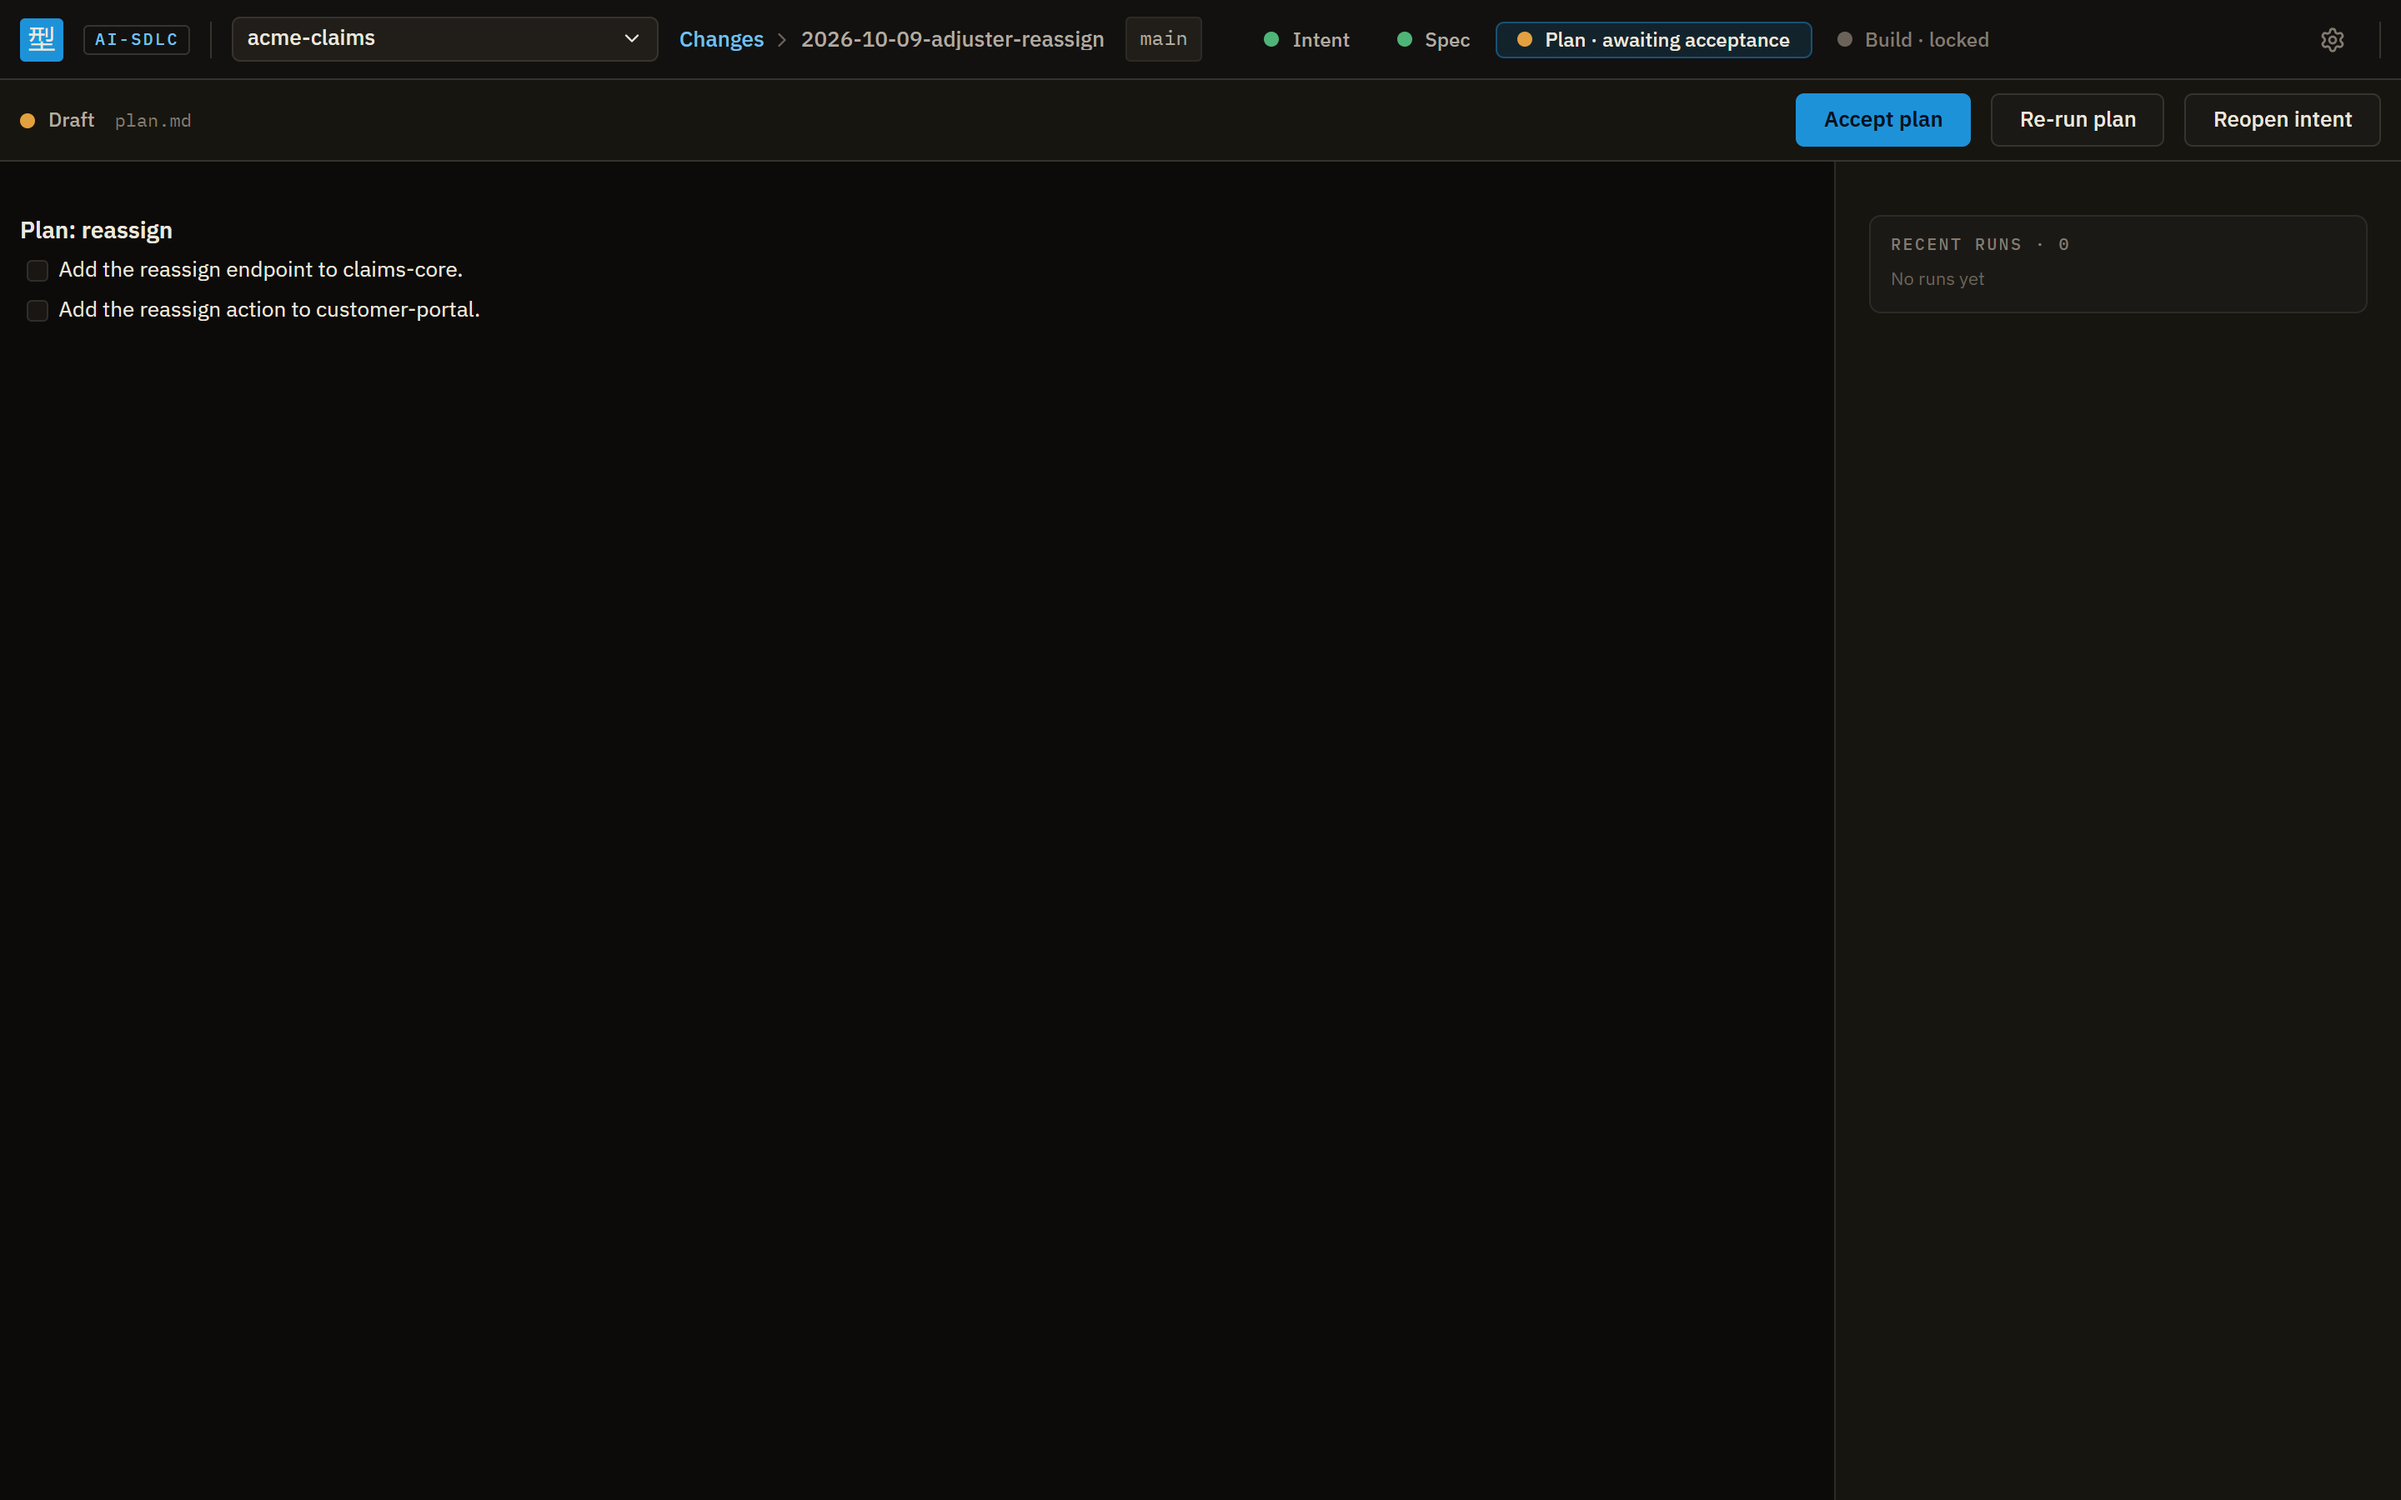
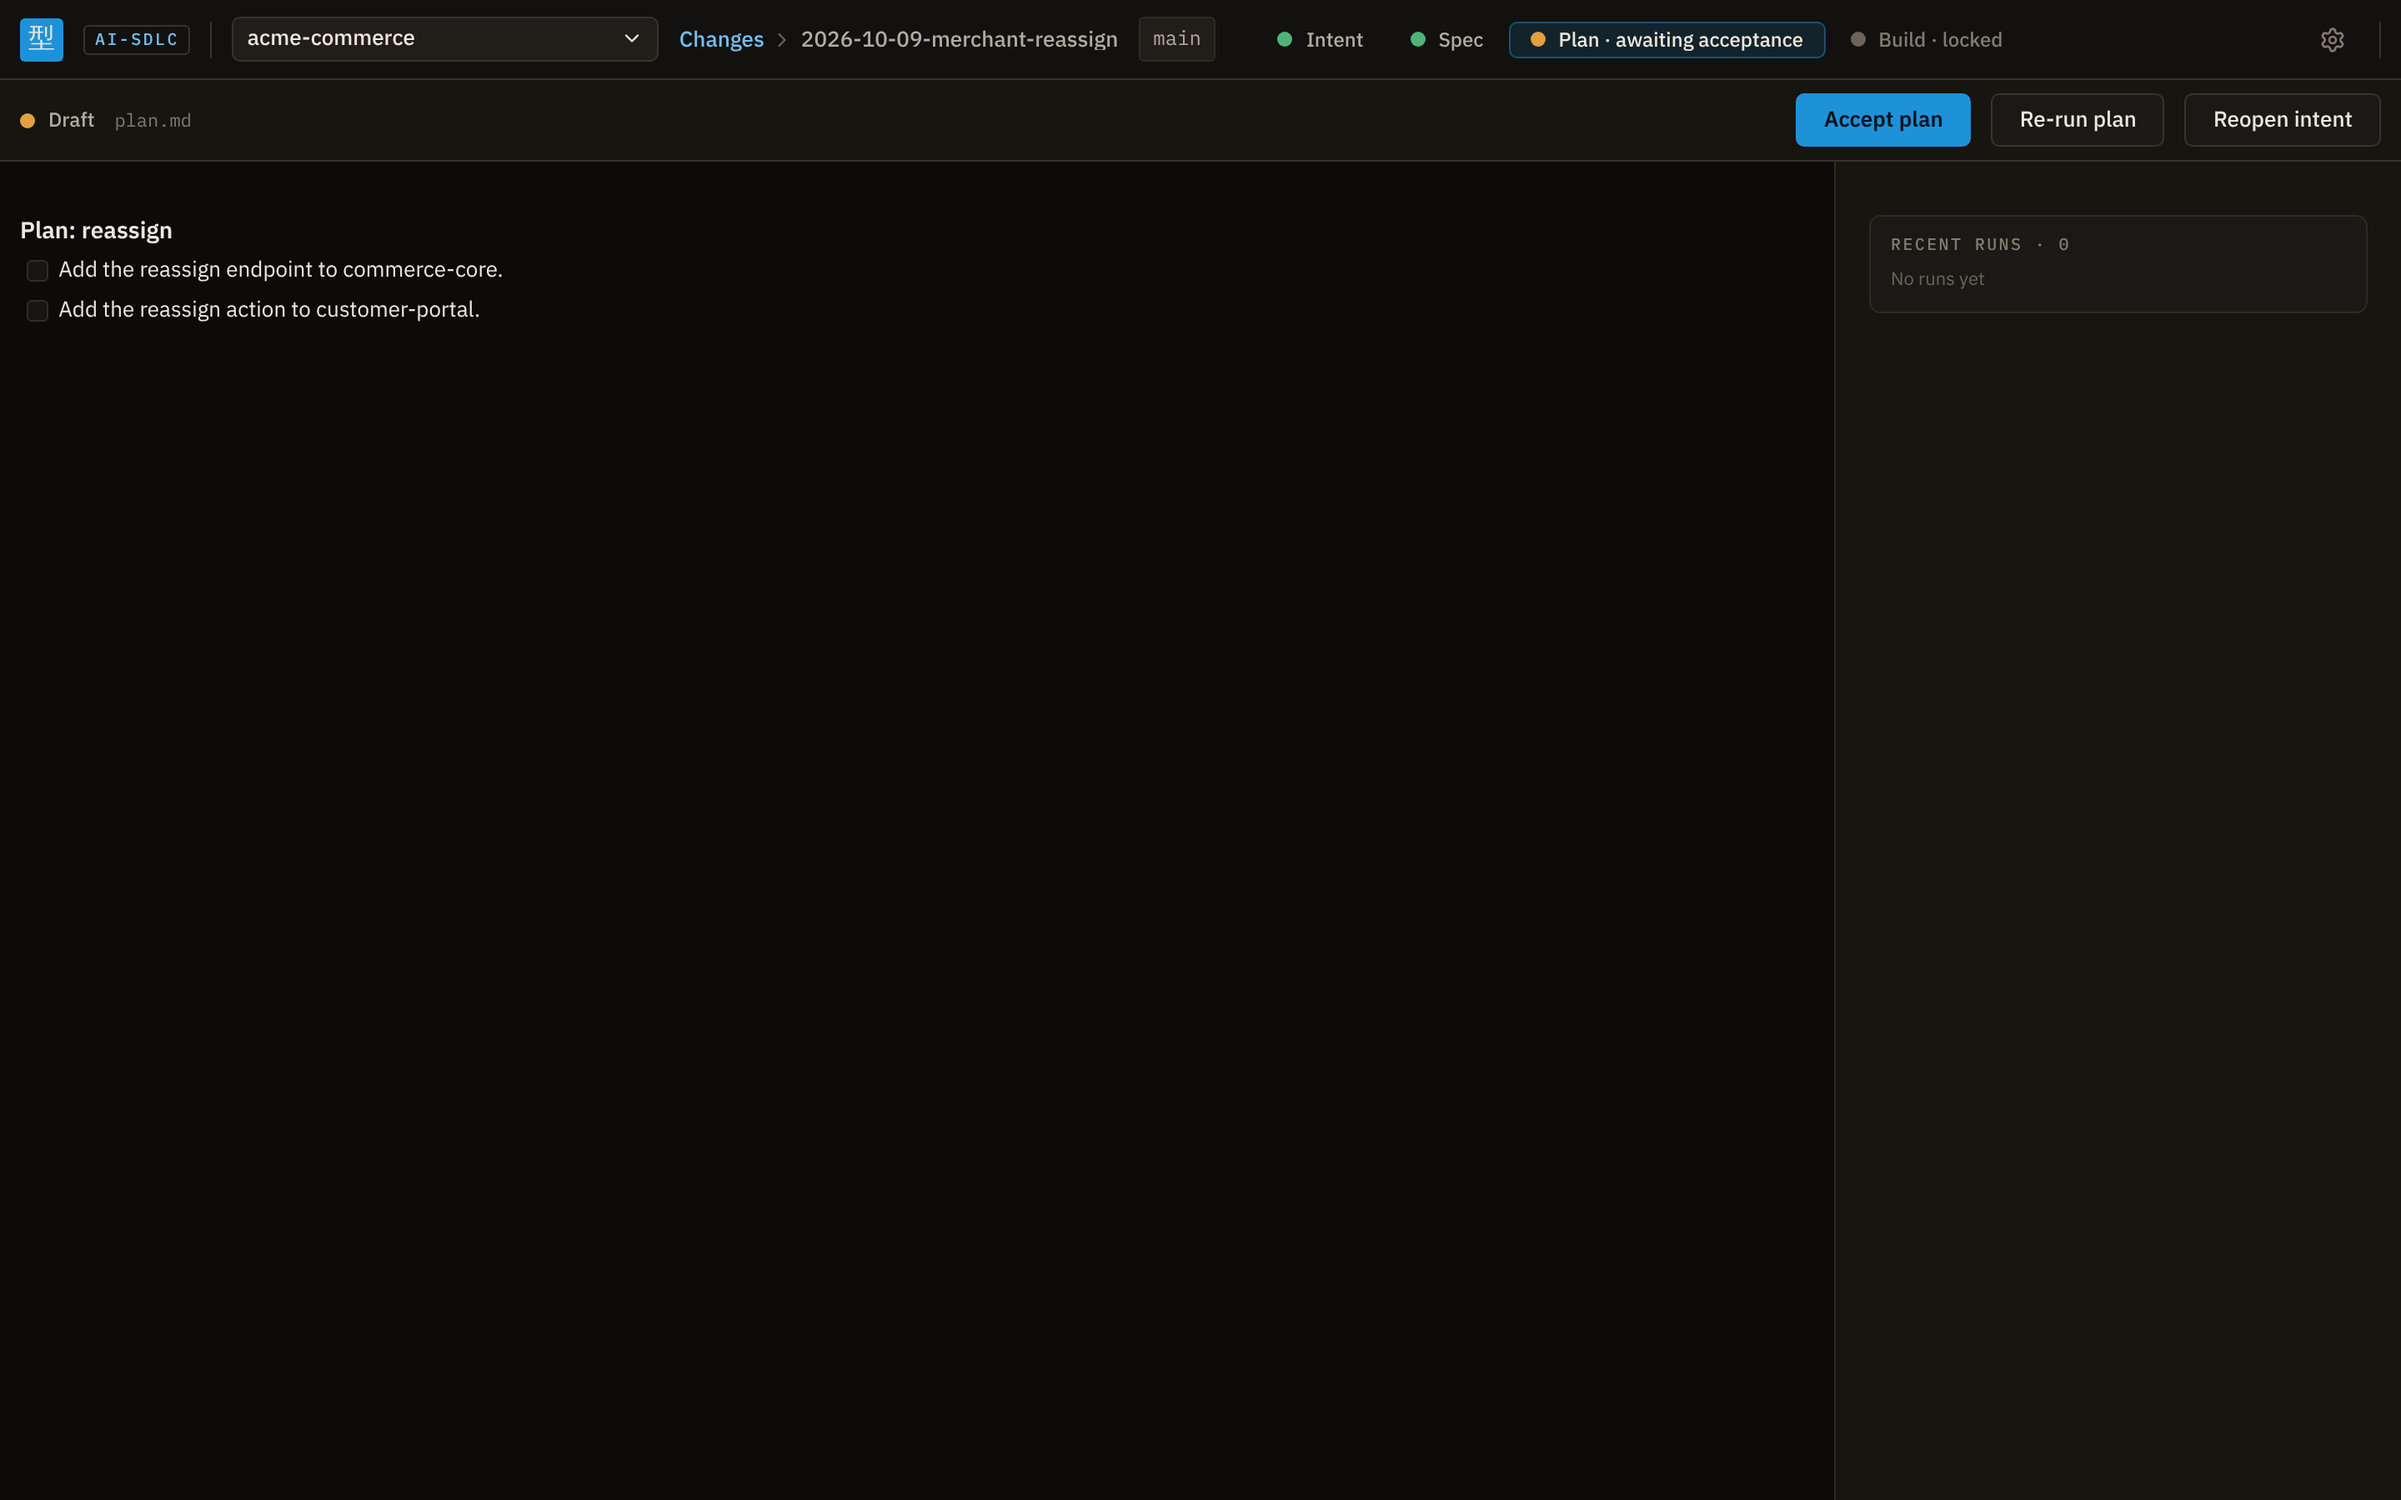
docs: README screenshots on the commerce demo data
Recaptured all 21 docs/images with npm run screenshots. Also points the
fixture's long pin-check command at the master repo (commerce-docs) rather
than a <system>-intent name, and says "product form" where a task still
read "report form".

Claude-Session: https://claude.ai/code/session_015r2zzV3tWHHG5hzUxiwHyE

diff --git a/app/src/app/lib/sdlc-mock.ts b/app/src/app/lib/sdlc-mock.ts
@@ -251,15 +251,15 @@ const change = (name: string, intent: DocState, spec: DocState, plan: DocState, 
 
 /** A fix's three documents, drafted: what the light track writes before the engineer accepts it. */
 const fixDocs = (name: string, title: string): Record<string, string> => ({
-  [`${name}/intent`]: `---\nstatus: draft\n---\n# ${title}\n\nThe report form shows a retry button after a failed upload.\n`,
+  [`${name}/intent`]: `---\nstatus: draft\n---\n# ${title}\n\nThe product form shows a retry button after a failed upload.\n`,
   [`${name}/spec`]: `---\nstatus: draft\n---\n# Spec: ${title}\n\n## Requirements\n\n1. A failed upload offers a retry.\n2. A retry keeps the photos already chosen.\n`,
-  [`${name}/plan`]: `---\nstatus: draft\n---\n# Plan: ${title}\n\n## Tasks\n\n### T1: Add the retry button to the report form (\`customer-portal\`)\n\n- **Depends on:** none\n`,
+  [`${name}/plan`]: `---\nstatus: draft\n---\n# Plan: ${title}\n\n## Tasks\n\n### T1: Add the retry button to the product form (\`customer-portal\`)\n\n- **Depends on:** none\n`,
 });
 
 /** The demo build's plan: T3 waits for T1, which lives in the other repository. */
 const BUILD_PLAN: PlanTask[] = [
   { id: 'T1', name: 'Refuse an eleventh photo in the attachment store', repo: 'commerce-core', dependsOn: [] },
-  { id: 'T2', name: 'Add the photo picker to the report form', repo: 'customer-portal', dependsOn: [] },
+  { id: 'T2', name: 'Add the photo picker to the product form', repo: 'customer-portal', dependsOn: [] },
   { id: 'T3', name: 'Show the upload limit message', repo: 'customer-portal', dependsOn: ['T1'] },
 ];
 /**
@@ -292,7 +292,7 @@ const TASK_SECTIONS: Record<string, ParsedSection[]> = {
   ],
   T2: [
     { title: 'Files', body: '`src/report/photo-picker.ts`.' },
-    { title: 'Change', body: 'Add a picker to the report form that lists the chosen photos.' },
+    { title: 'Change', body: 'Add a picker to the product form that lists the chosen photos.' },
     { title: 'Tests', body: 'the picker lists what was chosen (covers R1.2).' },
     { title: 'Done when', body: 'a seller can choose and remove photos on the form.' },
   ],
@@ -349,7 +349,7 @@ const BUILD_SPEC: ParsedRequirement[] = [
   {
     id: 'R3', title: 'The limit shows before the first attempt', from: ['D5'], line: 33,
     scenarios: [
-      { id: 'R3.1', title: 'The form states the limit', outline: false, examples: null, line: 35, steps: ['Given the report form', 'Then it says "Up to 10 photos, 10 MB each"'] },
+      { id: 'R3.1', title: 'The form states the limit', outline: false, examples: null, line: 35, steps: ['Given the product form', 'Then it says "Up to 10 photos, 10 MB each"'] },
     ],
   },
 ];
@@ -850,7 +850,7 @@ const LONG_DIFF_PAIRS: Record<string, FilePair> = {
 const buildTranscript = (repo: string) =>
   ({ delay: 250, ev: { type: 'log', level: 'info', message: `transcript: ${TRANSCRIPT_DIR}/sdlc-commerce-${MOCK_BUILD_CHANGE}-build-${repo}-20261019T090000Z.jsonl` } }) as ScriptStep;
 
-const LONG_COMMAND = `cd ../${MOCK_SYSTEM}-intent; C=${MOCK_SYSTEM}/${MOCK_BUILD_CHANGE}; git diff --quiet 150916f8bf1693f32c589f656a3b91c11a716eb0 HEAD -- $C/intent.md; echo intent-pin=$?; git diff --quiet 150916f8bf1693f32c589f656a3b91c11a716eb0 HEAD -- $C/spec.md; echo spec-pin=$?`;
+const LONG_COMMAND = `cd ../${MOCK_MASTER}; C=${MOCK_SYSTEM}/${MOCK_BUILD_CHANGE}; git diff --quiet 150916f8bf1693f32c589f656a3b91c11a716eb0 HEAD -- $C/intent.md; echo intent-pin=$?; git diff --quiet 150916f8bf1693f32c589f656a3b91c11a716eb0 HEAD -- $C/spec.md; echo spec-pin=$?`;
 
 /** The steps for one task: read what it needs, then commit it. */
 const taskSteps = (t: PlanTask): ScriptStep[] => [
@@ -880,7 +880,7 @@ export function buildRunScript(repo: string, tasks: PlanTask[], ask: boolean, pe
   if (permission) return { head: [...read, { delay: 300, ev: { type: 'permission.requested', id: 'p1', ...PENDING_PERMISSION } }], mid: work };
   if (!ask) return { head: [...read, ...work], mid: [] };
   const question: ScriptStep = { delay: 300, ev: { type: 'ask.requested', id: 'q1', questions: [
-    { kind: 'select', header: 'picker', question: 'The report form already has a file picker. Reuse it for photos?',
+    { kind: 'select', header: 'picker', question: 'The product form already has a file picker. Reuse it for photos?',
       options: [ { label: 'Reuse it', description: 'smaller change' }, { label: 'Build a new one', description: 'matches the plan text' } ],
       multi_select: false },
   ] } };
@@ -902,7 +902,7 @@ const LONG_REVIEW_FINDINGS = [
   'The billing summary counts a photo twice when it is replaced and not removed first.',
   'The refusal reason is logged with the file name, which can hold a seller name.',
   'The monthly report export has no test for a product with no photos.',
-  'The limit message is not translated like the other messages on the report form.',
+  'The limit message is not translated like the other messages on the product form.',
   'A product loaded from the cache skips the photo count.',
   'The photo picker keeps a removed photo in the form state until the page is left.',
 ];

diff --git a/app/src/app/ui/done-dialog.spec.ts b/app/src/app/ui/done-dialog.spec.ts
@@ -137,10 +137,10 @@ describe('DoneDialog', () => {
   });
 
   it("done dialog lists departures with the plan's text before confirm (R9.2)", async () => {
-    await open(report({ departures: [{ task: 'T2', repo: 'customer-portal', planText: 'Add the photo picker to the report form', departure: 'Reused the existing file picker.' }] }));
+    await open(report({ departures: [{ task: 'T2', repo: 'customer-portal', planText: 'Add the photo picker to the product form', departure: 'Reused the existing file picker.' }] }));
     expect(text()).toContain('Departures from the plan');
     expect(text()).toContain('T2');
-    expect(text()).toContain('Add the photo picker to the report form');
+    expect(text()).toContain('Add the photo picker to the product form');
     expect(text()).toContain('Reused the existing file picker.');
   });
 

diff --git a/app/src/app/sdlc/change/change-page.done.spec.ts b/app/src/app/sdlc/change/change-page.done.spec.ts
@@ -20,7 +20,7 @@ import { ChangePageViewModel } from './change-page.view-model';
 const BUILD = MOCK_BUILD_CHANGE;
 const RUN = `sdlc-commerce-${BUILD}-review-1`;
 const REPOS = ['commerce-core', 'customer-portal'];
-const DEPARTURE = { task: 'T2', repo: 'customer-portal', planText: 'Add the photo picker to the report form', departure: 'Reused the existing file picker.' };
+const DEPARTURE = { task: 'T2', repo: 'customer-portal', planText: 'Add the photo picker to the product form', departure: 'Reused the existing file picker.' };
 const toastText = () => toastState.toasts().map((t) => String(t.title)).join(' | ');
 
 function setup(transport: MockTransport) {
